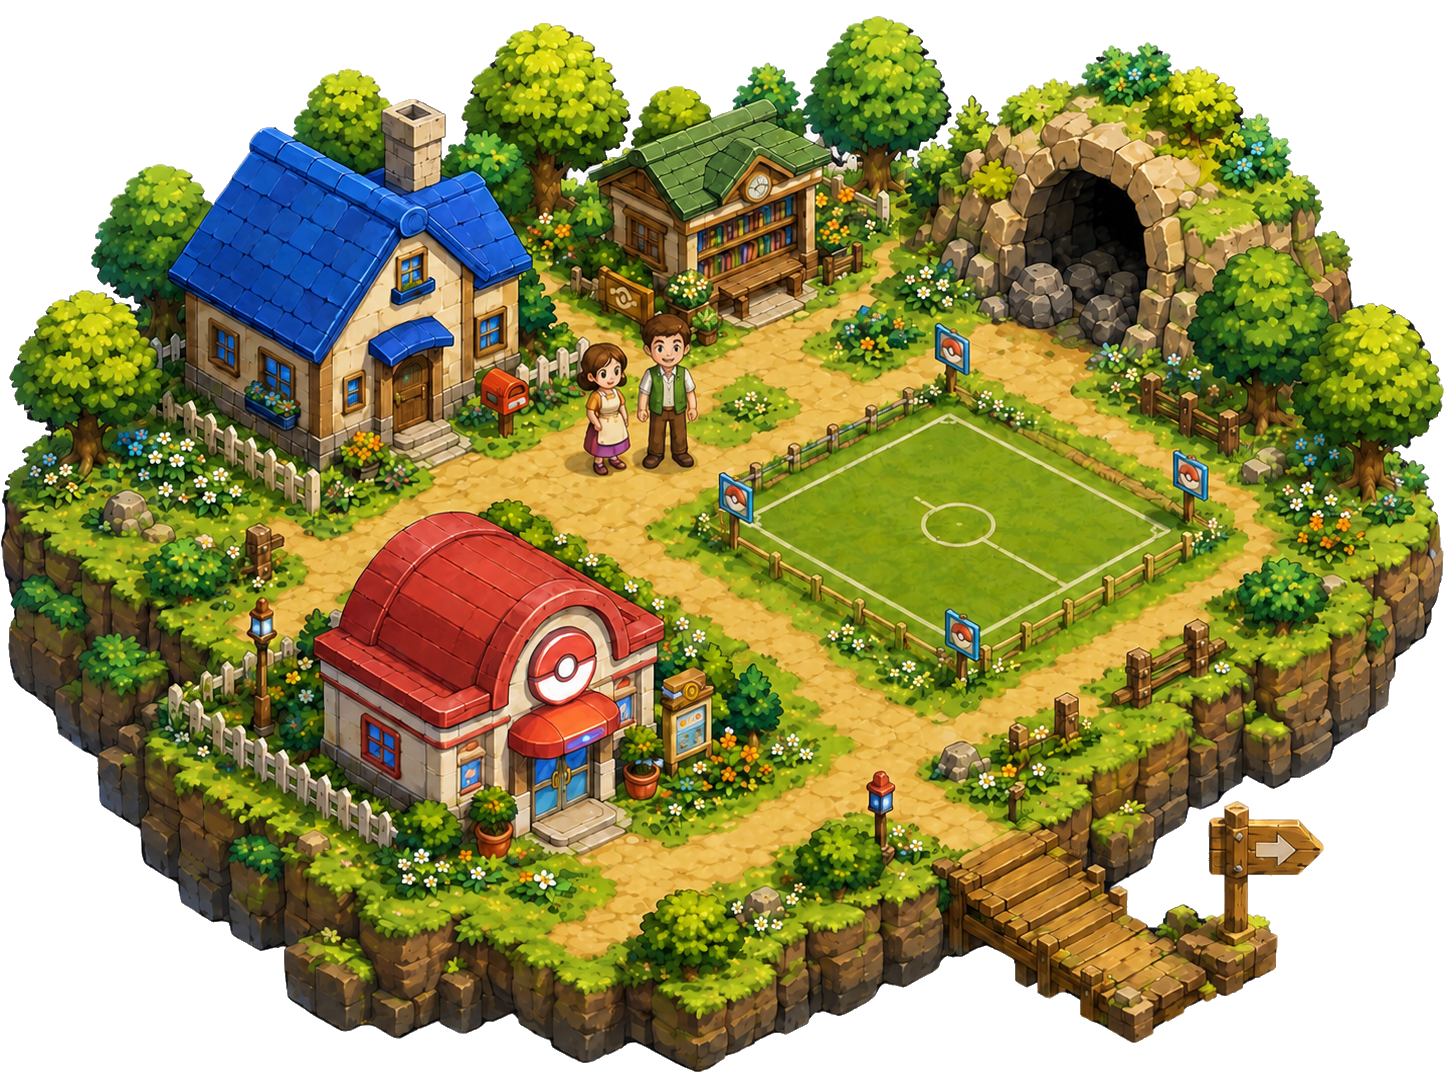
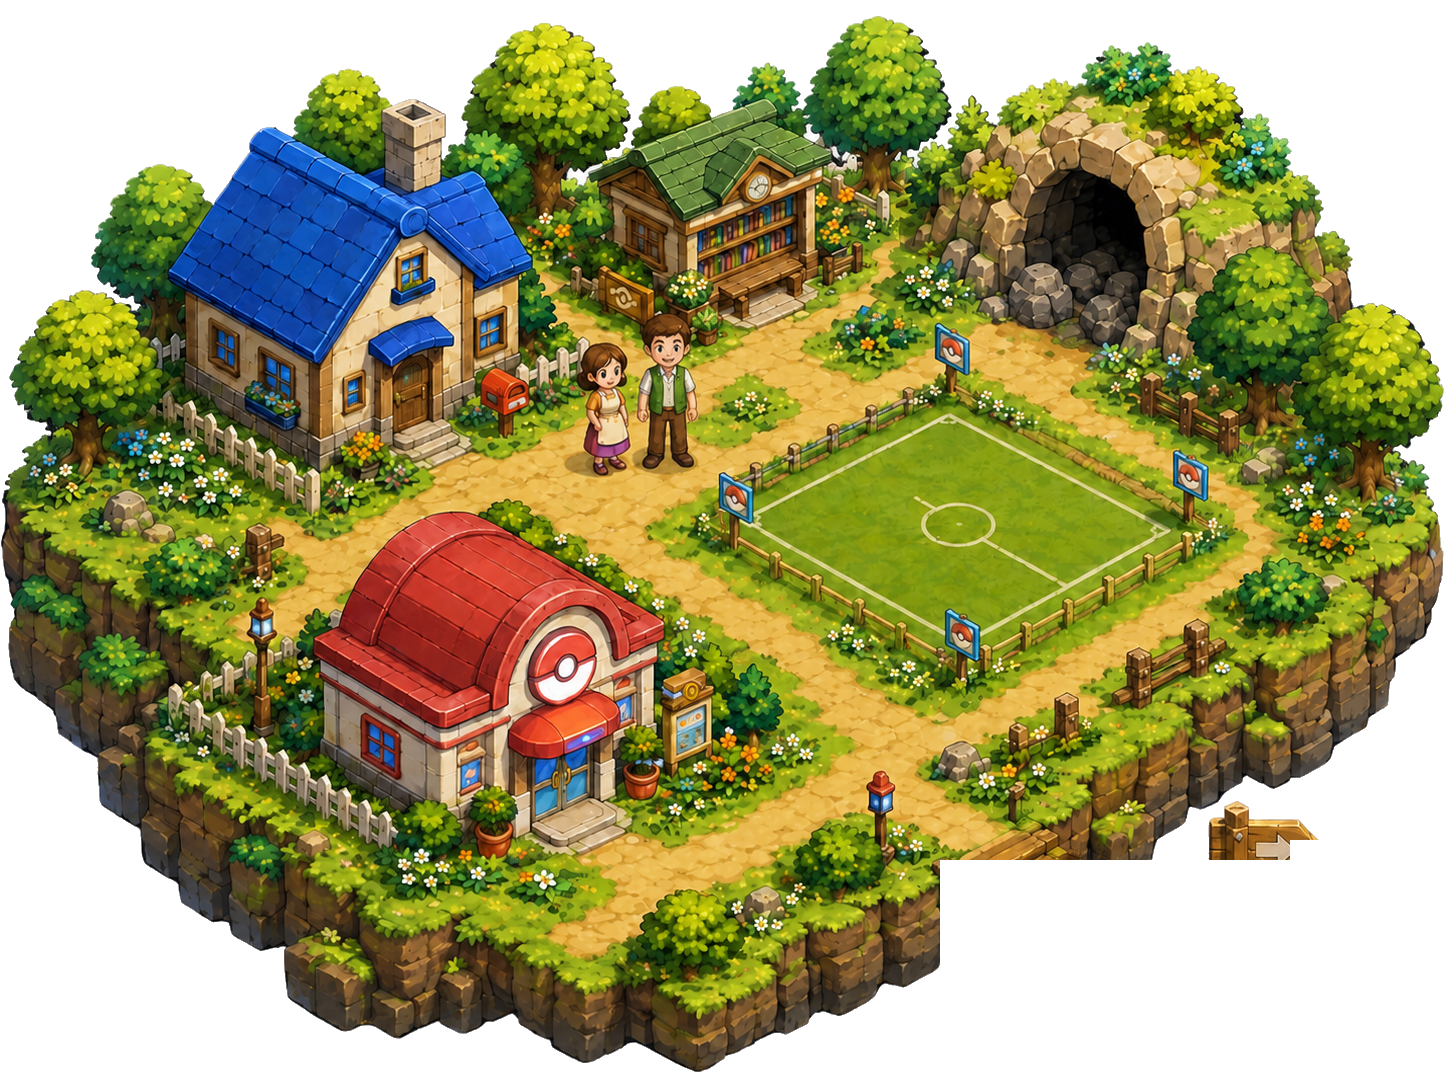
fix: journey game playtest round 2
- Painted bridge stubs erased from all island art; suspension bridges
  with sag curve, rope rails, end posts, and soft shadow now attach
  directly to clean cliff edges
- HOME label moved onto the blue house (hotspots support labelX/labelY)
- GO BEARS statue landmark replaced with CLUBS at the Join-a-Club tent
  (Berkeley Codeology + Mobile Developers of Berkeley story)
- Day/night sky by visitor's local time: blue sky with drifting clouds
  7am-7pm, starfield at night; ?sky=day|night dev override

Changed region(s): [[0.6215, 0.7597, 0.9323, 0.9724]]

diff --git a/app/components/journey/game/IslandScene.ts b/app/components/journey/game/IslandScene.ts
@@ -31,6 +31,8 @@ export class IslandScene extends Phaser.Scene {
   private touch: TouchState = { up: false, down: false, left: false, right: false };
   private facing: Dir = "up";
   private fontFamily = "monospace";
+  private night = true;
+  private clouds: Phaser.GameObjects.Image[] = [];
 
   constructor() {
     super("islands");
@@ -49,8 +51,12 @@ export class IslandScene extends Phaser.Scene {
     const host = this.game.canvas.parentElement;
     if (host) this.fontFamily = getComputedStyle(host).fontFamily || "monospace";
 
-    this.cameras.main.setBackgroundColor("#0a0a1a");
-    this.makeStarfield();
+    const skyQ = new URLSearchParams(window.location.search).get("sky");
+    const hour = new Date().getHours();
+    this.night = skyQ === "night" || (skyQ !== "day" && (hour < 7 || hour >= 19));
+    this.cameras.main.setBackgroundColor(this.night ? "#0a0a1a" : "#9ccaef");
+    if (this.night) this.makeStarfield();
+    else this.makeClouds();
     this.makeBridges();
 
     /* islands */
@@ -63,10 +69,10 @@ export class IslandScene extends Phaser.Scene {
       for (const spot of isle.hotspots) {
         const lm = landmarks[spot.landmarkId];
         if (!lm) continue;
-        const lx = isle.wx + spot.x;
-        const ly = isle.wy + spot.y;
+        const lx = isle.wx + (spot.labelX ?? spot.x);
+        const ly = isle.wy + (spot.labelY ?? spot.y - spot.r) - 26;
         const label = this.add
-          .text(lx, ly - spot.r - 26, lm.label, {
+          .text(lx, ly, lm.label, {
             fontFamily: this.fontFamily,
             fontSize: "13px",
             color: "#ffffff",
@@ -78,7 +84,7 @@ export class IslandScene extends Phaser.Scene {
           .setDepth(40);
         this.tweens.add({
           targets: label,
-          y: ly - spot.r - 34,
+          y: ly - 8,
           duration: 1400,
           yoyo: true,
           repeat: -1,
@@ -197,6 +203,38 @@ export class IslandScene extends Phaser.Scene {
       .setScrollFactor(0.35);
   }
 
+  private makeClouds() {
+    const g = this.make.graphics({ x: 0, y: 0 }, false);
+    const blobs: [number, number, number, number][] = [
+      [70, 70, 60, 28],
+      [130, 60, 75, 32],
+      [190, 72, 55, 26],
+      [110, 84, 90, 24],
+    ];
+    for (const [cx, cy, rx, ry] of blobs) {
+      g.fillStyle(0xffffff, 0.35).fillEllipse(cx, cy + 4, rx * 2.2, ry * 2.2);
+      g.fillStyle(0xffffff, 0.85).fillEllipse(cx, cy, rx * 2, ry * 2);
+    }
+    g.generateTexture("cloud", 280, 130);
+    g.destroy();
+
+    let seed = 4242;
+    const rnd = () => {
+      seed = (seed * 16807) % 2147483647;
+      return seed / 2147483647;
+    };
+    for (let i = 0; i < 9; i++) {
+      const c = this.add
+        .image(rnd() * WORLD_W, rnd() * WORLD_H, "cloud")
+        .setScale(1.2 + rnd() * 2)
+        .setAlpha(0.5 + rnd() * 0.35)
+        .setDepth(2)
+        .setScrollFactor(0.45);
+      c.setData("speed", 12 + rnd() * 22);
+      this.clouds.push(c);
+    }
+  }
+
   private makeBridges() {
     /* plank texture */
     const g = this.make.graphics({ x: 0, y: 0 }, false);
@@ -206,26 +244,70 @@ export class IslandScene extends Phaser.Scene {
     g.generateTexture("plank", 26, 112);
     g.destroy();
 
+    /* post texture */
+    const pg = this.make.graphics({ x: 0, y: 0 }, false);
+    pg.fillStyle(0x4a3018, 1).fillRoundedRect(0, 0, 14, 64, 4);
+    pg.fillStyle(0x6b4a2a, 1).fillRoundedRect(2, 2, 10, 60, 3);
+    pg.generateTexture("bridge-post", 14, 64);
+    pg.destroy();
+
     for (const b of bridges) {
       const dx = b.x2 - b.x1;
       const dy = b.y2 - b.y1;
       const len = Math.hypot(dx, dy);
-      const angle = Math.atan2(dy, dx);
-      const step = 30;
+      const sag = len * 0.045;
+      const point = (t: number) => ({
+        x: b.x1 + dx * t,
+        y: b.y1 + dy * t + 4 * sag * t * (1 - t),
+      });
+
+      /* soft shadow under the deck */
+      const shadow = this.add.graphics().setDepth(4);
+      shadow.lineStyle(BRIDGE_HALF_WIDTH * 1.6, 0x000000, 0.18);
+      shadow.beginPath();
+      shadow.moveTo(b.x1, b.y1 + 16);
+      for (let i = 1; i <= 24; i++) {
+        const q = point(i / 24);
+        shadow.lineTo(q.x, q.y + 16);
+      }
+      shadow.strokePath();
+
+      /* planks following the sag curve */
+      const step = 26;
       for (let d = 0; d <= len; d += step) {
-        const t = d / len;
+        const t0 = d / len;
+        const q = point(t0);
+        const q2 = point(Math.min(1, t0 + 0.01));
         this.add
-          .image(b.x1 + dx * t, b.y1 + dy * t, "plank")
-          .setRotation(angle)
+          .image(q.x, q.y, "plank")
+          .setRotation(Math.atan2(q2.y - q.y, q2.x - q.x))
           .setDepth(5);
       }
-      /* rope rails */
+
+      /* rope rails following the curve */
       const ropes = this.add.graphics().setDepth(6);
-      const nx = (-dy / len) * (BRIDGE_HALF_WIDTH - 8);
-      const ny = (dx / len) * (BRIDGE_HALF_WIDTH - 8);
-      ropes.lineStyle(5, 0x3a2a14, 1);
-      ropes.lineBetween(b.x1 + nx, b.y1 + ny, b.x2 + nx, b.y2 + ny);
-      ropes.lineBetween(b.x1 - nx, b.y1 - ny, b.x2 - nx, b.y2 - ny);
+      const nx = (-dy / len) * (BRIDGE_HALF_WIDTH - 10);
+      const ny = (dx / len) * (BRIDGE_HALF_WIDTH - 10);
+      for (const side of [1, -1]) {
+        ropes.lineStyle(5, 0x3a2a14, 1);
+        ropes.beginPath();
+        ropes.moveTo(b.x1 + nx * side, b.y1 + ny * side - 18);
+        for (let i = 1; i <= 24; i++) {
+          const q = point(i / 24);
+          ropes.lineTo(q.x + nx * side, q.y + ny * side - 18);
+        }
+        ropes.strokePath();
+      }
+
+      /* end posts */
+      for (const [ex, ey] of [
+        [b.x1 + nx, b.y1 + ny],
+        [b.x1 - nx, b.y1 - ny],
+        [b.x2 + nx, b.y2 + ny],
+        [b.x2 - nx, b.y2 - ny],
+      ]) {
+        this.add.image(ex, ey - 24, "bridge-post").setDepth(7);
+      }
     }
   }
 
@@ -335,6 +417,11 @@ export class IslandScene extends Phaser.Scene {
   update(_t: number, dtMs: number) {
     const cam = this.cameras.main;
     cam.setZoom(Phaser.Math.Linear(cam.zoom, this.targetZoom(), 0.03));
+
+    for (const c of this.clouds) {
+      c.x += (c.getData("speed") as number) * (dtMs / 1000);
+      if (c.x > WORLD_W + 500) c.x = -500;
+    }
 
     if (this.dialogOpen) {
       this.player.anims.stop();

diff --git a/app/components/journey/game/islands.ts b/app/components/journey/game/islands.ts
@@ -7,6 +7,9 @@ export type Hotspot = {
   y: number;
   /** interaction radius */
   r: number;
+  /** optional label position override (defaults to above the hotspot) */
+  labelX?: number;
+  labelY?: number;
 };
 
 export type Collider = { x: number; y: number; r: number };
@@ -40,7 +43,7 @@ export const islands: IslandDef[] = [
     wx: 0,
     wy: 600,
     hotspots: [
-      { landmarkId: "home", x: 615, y: 470, r: 130 },
+      { landmarkId: "home", x: 615, y: 470, r: 130, labelX: 330, labelY: 250 },
       { landmarkId: "mangaLibrary", x: 730, y: 320, r: 120 },
       { landmarkId: "minecraftCave", x: 1110, y: 320, r: 130 },
       { landmarkId: "sportsField", x: 960, y: 570, r: 150 },
@@ -87,7 +90,7 @@ export const islands: IslandDef[] = [
       { landmarkId: "campanile", x: 1010, y: 350, r: 120 },
       { landmarkId: "unit2", x: 1240, y: 320, r: 140 },
       { landmarkId: "foodStalls", x: 620, y: 690, r: 150 },
-      { landmarkId: "bearStatue", x: 1000, y: 650, r: 110 },
+      { landmarkId: "clubs", x: 1190, y: 520, r: 120, labelX: 1190, labelY: 400 },
       { landmarkId: "lockedGate", x: 1300, y: 770, r: 120 },
     ],
     colliders: [
@@ -97,6 +100,7 @@ export const islands: IslandDef[] = [
       { x: 1248, y: 205, r: 125 }, // dorm
       { x: 620, y: 610, r: 95 }, // food stalls
       { x: 1000, y: 595, r: 40 }, // bear statue
+      { x: 1190, y: 470, r: 70 }, // club fair tent
     ],
   },
 ];
@@ -109,13 +113,12 @@ export type Bridge = {
 };
 
 /**
- * Bridges start exactly at the painted stubs:
- * lodge dock tip (1040, 1000), toga west stub (45, 390),
- * toga SE dock (1330, 840), campanile SW stone bridge (200, 850).
+ * The painted bridge stubs were erased from the art; bridges now attach
+ * directly to the clean cliff edges.
  */
 export const bridges: Bridge[] = [
-  { x1: 0 + 1040, y1: 600 + 1000, x2: 1750 + 45, y2: 1500 + 390 },
-  { x1: 1750 + 1330, y1: 1500 + 840, x2: 3650 + 200, y2: 1400 + 850 },
+  { x1: 0 + 1090, y1: 600 + 850, x2: 1750 + 125, y2: 1500 + 400 },
+  { x1: 1750 + 1215, y1: 1500 + 838, x2: 3650 + 295, y2: 1400 + 845 },
 ];
 
 export const BRIDGE_HALF_WIDTH = 52;

diff --git a/app/components/journey/JourneyGame.tsx b/app/components/journey/JourneyGame.tsx
@@ -19,8 +19,18 @@ const dpadDirs = [
   { id: "down", label: "▼", area: "d" },
 ] as const;
 
+function isNight(): boolean {
+  if (typeof window === "undefined") return true;
+  const skyQ = new URLSearchParams(window.location.search).get("sky");
+  if (skyQ === "night") return true;
+  if (skyQ === "day") return false;
+  const hour = new Date().getHours();
+  return hour < 7 || hour >= 19;
+}
+
 export default function JourneyGame() {
   const hostRef = useRef<HTMLDivElement>(null);
+  const [night] = useState(isNight);
   // eslint-disable-next-line @typescript-eslint/no-explicit-any
   const gameRef = useRef<any>(null);
   const [zone, setZone] = useState<ZoneId>("lodge");
@@ -49,7 +59,7 @@ export default function JourneyGame() {
       gameRef.current = new Phaser.Game({
         type: Phaser.AUTO,
         parent: hostRef.current,
-        backgroundColor: "#0a0a1a",
+        backgroundColor: night ? "#0a0a1a" : "#9ccaef",
         pixelArt: false,
         scale: {
           mode: Phaser.Scale.RESIZE,
@@ -64,6 +74,8 @@ export default function JourneyGame() {
       gameRef.current?.destroy(true);
       gameRef.current = null;
     };
+    // night is stable for the session (decided once at mount)
+    // eslint-disable-next-line react-hooks/exhaustive-deps
   }, []);
 
   const startGame = useCallback(() => {
@@ -164,7 +176,7 @@ export default function JourneyGame() {
     (!landmark.photos || photo === landmark.photos.length - 1);
 
   return (
-    <div className="relative h-dvh w-full overflow-hidden bg-[#0a0a1a]">
+    <div className={`relative h-dvh w-full overflow-hidden ${night ? "bg-[#0a0a1a]" : "bg-[#9ccaef]"}`}>
       <div ref={hostRef} className="absolute inset-0" />
 
       {/* HUD top bar */}

diff --git a/app/data/journey.ts b/app/data/journey.ts
@@ -186,14 +186,17 @@ export const landmarks: Record<string, Landmark> = {
     ],
     photos: [{ label: "PHOTO: katsu curry" }],
   },
-  bearStatue: {
-    id: "bearStatue",
-    speaker: "Bear Statue",
-    label: "GO BEARS",
+  clubs: {
+    id: "clubs",
+    speaker: "Club Fair Tent",
+    label: "CLUBS",
     lines: [
-      "Hard work. Empathy. Authenticity.",
-      "And the people around me, family and friends, above everything.",
+      "Joined Berkeley Codeology first.",
+      "SWE fundamentals, my first real projects, and people who pushed me.",
+      "Then Mobile Developers of Berkeley.",
+      "Where I learned how to actually build and ship mobile apps.",
     ],
+    photos: [{ label: "PHOTO: club friends" }],
   },
   lockedGate: {
     id: "lockedGate",
